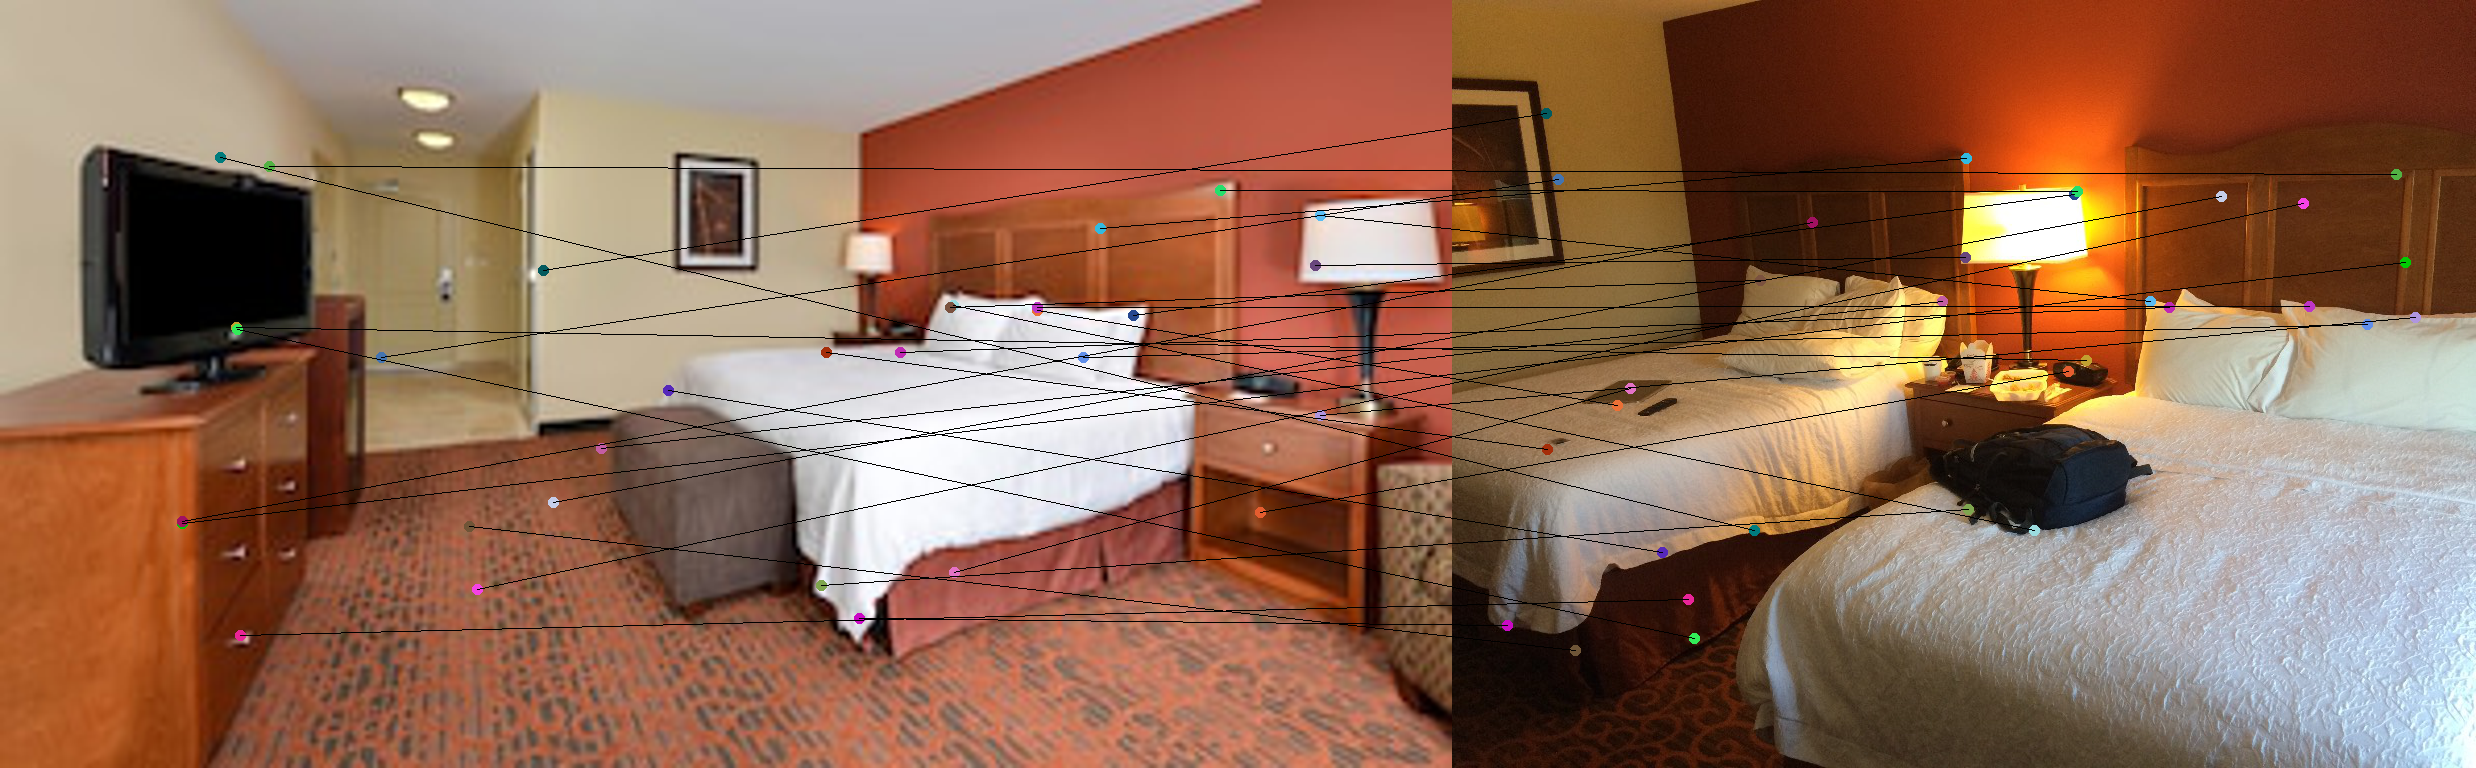
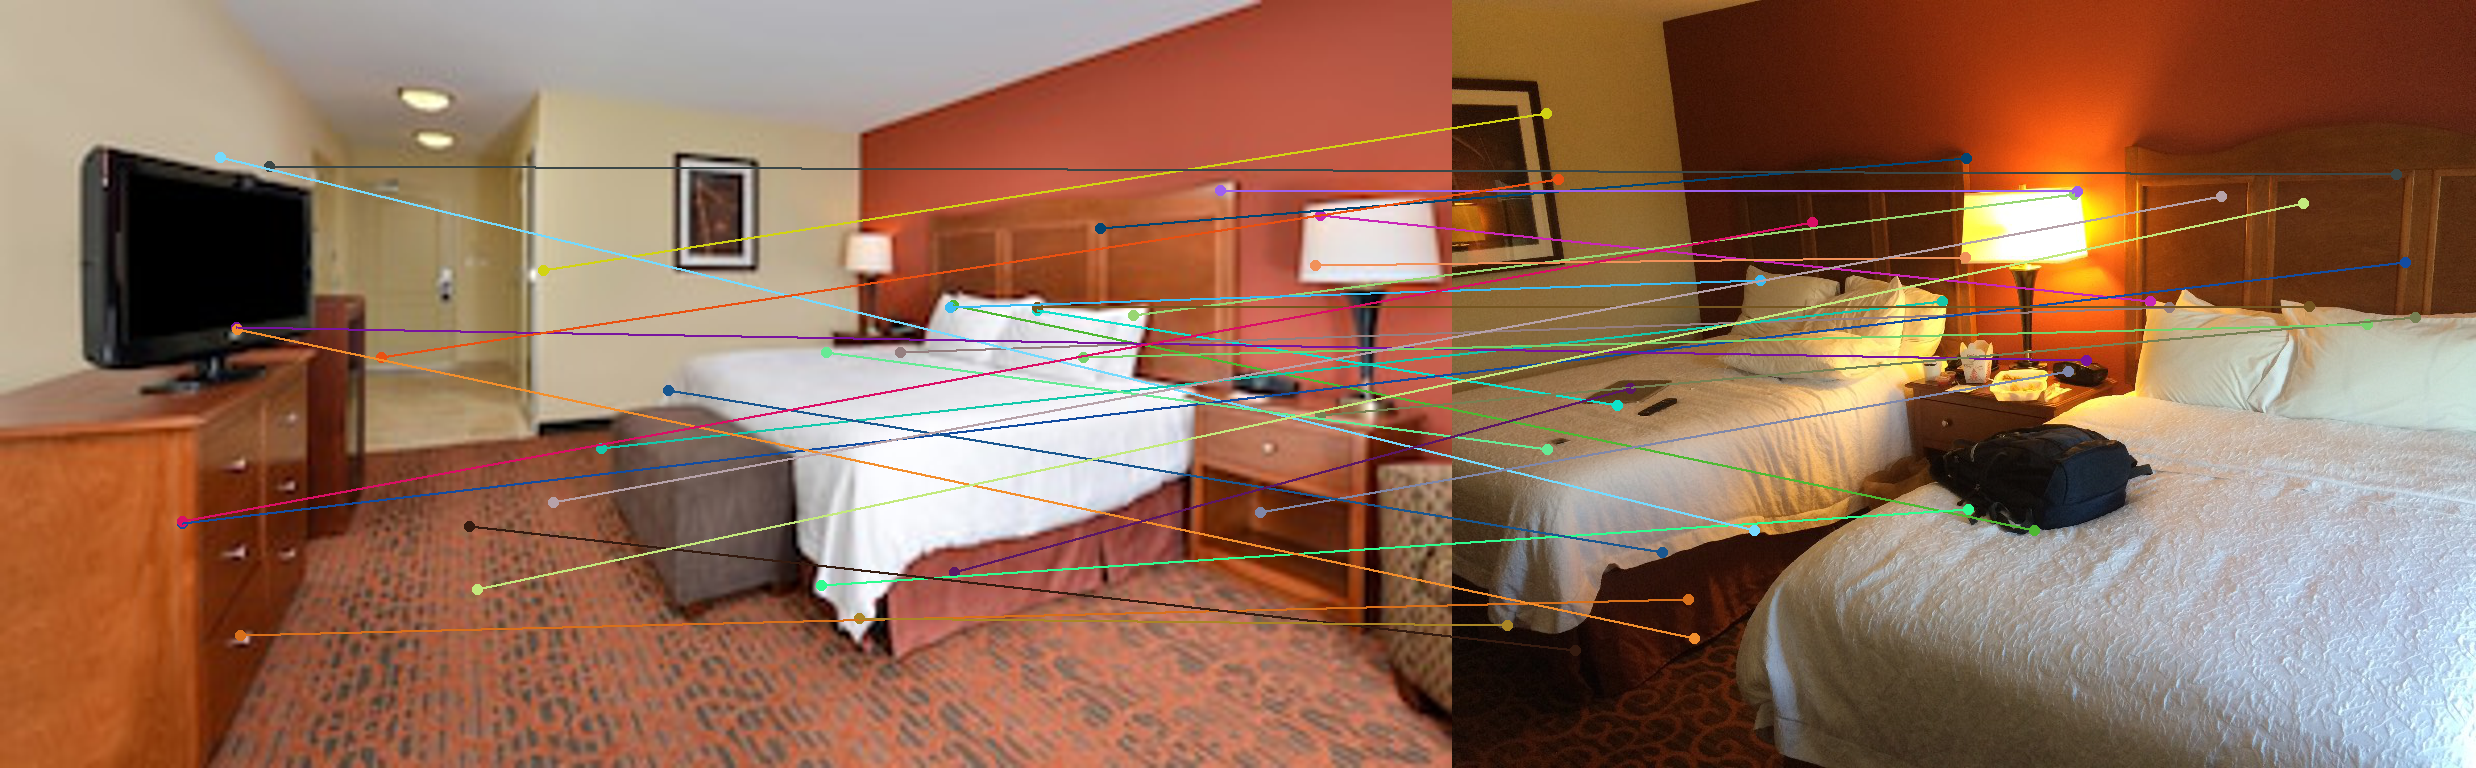
Make lines same color as points

diff --git a/visualization.py b/visualization.py
@@ -29,10 +29,10 @@ def closest_n_vectors(h1, h2, i1, i2, n):
     stitched_image, n_smallest = stitch_images(i1, i2, n_smallest)
 
     # Draw points in pairs with random matching colors.
-    image = draw_points(stitched_image, n_smallest)
+    image, colors = draw_points(stitched_image, n_smallest)
 
     # Draw lines between matching points.
-    image = draw_lines(image, n_smallest)
+    image = draw_lines(image, n_smallest, colors)
 
     # save
     return stitched_image, n_smallest
@@ -40,11 +40,12 @@ def closest_n_vectors(h1, h2, i1, i2, n):
 def closest_same_closest_diff(same_hotels, same_rooms, diff_hotels, diff_rooms):
     pass
 
-def draw_points(stitched_image, n_smallest_stitched):
-    draw = ImageDraw.Draw(stitched_image)
+def draw_points(image, n_smallest):
+    draw = ImageDraw.Draw(image)
 
     r = 5
-    for s in n_smallest_stitched:
+    colors = []
+    for s in n_smallest:
         point1, point2 = s[1][:2], s[2][:2]
         color = (randint(0, 255), randint(0,255), randint(0,255))
         circle1 = (point1[0]-r, point1[1]-r ,point1[0]+r, point1[1]+r)
@@ -53,15 +54,20 @@ def draw_points(stitched_image, n_smallest_stitched):
         draw.ellipse(circle1, fill=color)
         draw.ellipse(circle2, fill=color)
 
-    return stitched_image
+        colors.append(color)
 
-def draw_lines(image, n_smallest):
+    return image, colors
+
+def draw_lines(image, n_smallest, colors):
     draw = ImageDraw.Draw(image)
 
-    for s in n_smallest:
+    assert len(colors) == len(n_smallest)
+
+    for i in range(len(colors)):
+        s = n_smallest[i]
+        color = colors[i]
         point1, point2 = s[1][:2], s[2][:2]
-        color = (0,0,0)
-        draw.line((point1[0], point1[1], point2[0], point2[1]), fill=color)
+        draw.line((point1[0], point1[1], point2[0], point2[1]), fill=color, width=3)
 
     return image
 
